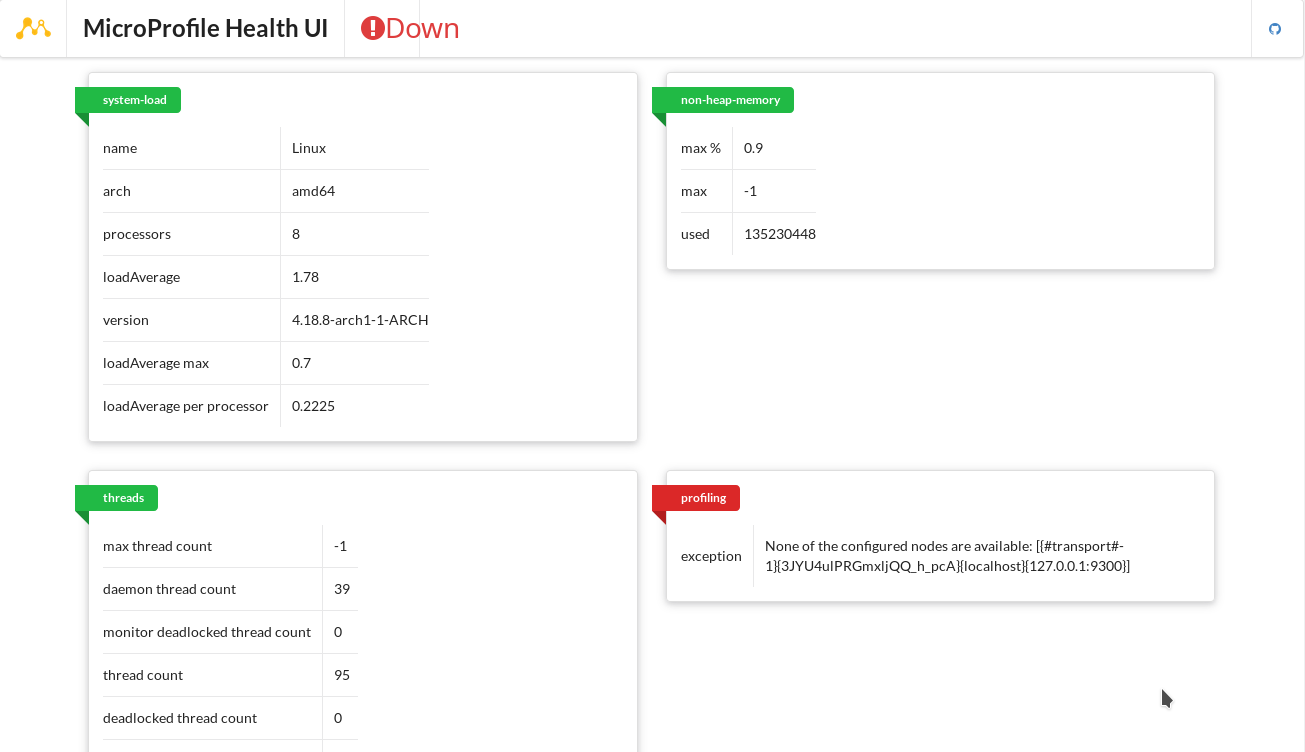
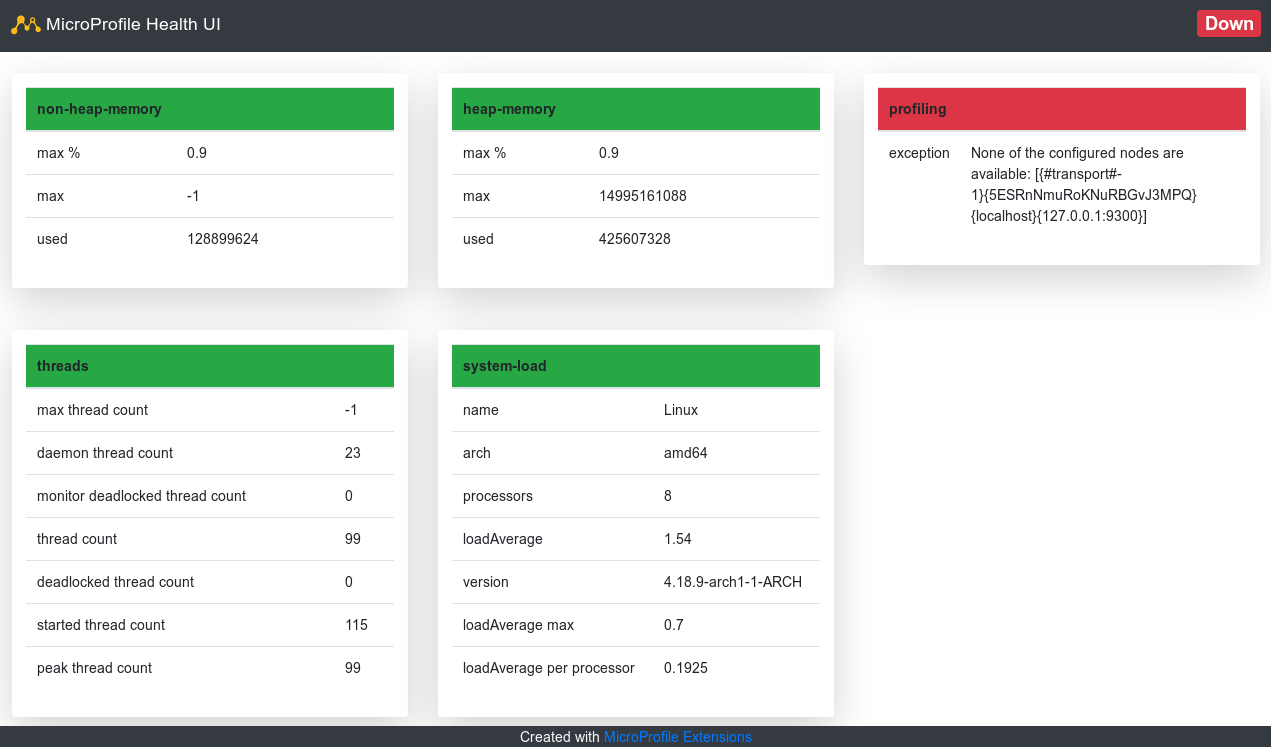
Changed from Semantic-ui to bootstrap

diff --git a/health-ui/src/main/webapp/health-ui/index.html b/health-ui/src/main/webapp/health-ui/index.html
@@ -3,7 +3,7 @@
     <head>
         <meta charset="utf-8">
         <meta http-equiv="X-UA-Compatible" content="IE=edge">
-        <meta name="viewport" content="width=device-width, initial-scale=1">
+        <meta name="viewport" content="width=device-width, initial-scale=1, shrink-to-fit=no">
         
         <meta name="description" content="MicroProfile Health UI"/>
         <meta name="keywords" content="MicroProfile, Health" />
@@ -16,44 +16,42 @@
         
         <title>MicroProfile Health UI</title>
 
-        <!-- Semantic UI -->
-        <link rel="stylesheet" type="text/css" href="../webjars/semantic-ui/${semantic-ui.version}/dist/semantic.min.css">
+        <!-- Bootstrap -->
+        <link rel="stylesheet" href="../webjars/bootstrap/${bootstrap.version}/css/bootstrap.min.css">
         
     </head>
     
     <body>
-        <div class="ui top menu">
-            <div class="item">
-                <img src="mplogo.png">
-            </div>
-            <div class="header item"><h2>MicroProfile Health UI</h2></div>
-            <div class="item" id="state">
-                <!-- Here enter the state -->
-            </div>
-            <div class="big right item">
-                <a href="https://github.com/microprofile-extensions/health-ext" target="_blank"><i class="github icon"></i></a>
+        <nav class="navbar sticky-top navbar-dark bg-dark">
+        
+            <a class="navbar-brand" href="#">
+              <img src="mplogo.png" width="30" height="30" class="d-inline-block align-top" alt="">
+              MicroProfile Health UI 
+            </a>
+            <ul class="navbar-nav">
+                <li class="nav-item" id="state">
+                    Loading state...
+                </li>
+            </ul>
+        </nav>
+        
+        <br/>
+        
+        <div class="container-fluid">
+            <div class="row" id="tiles">
+                Loading health probes...    
             </div>
         </div>
         
-        <div class="ui container">
-            <div class="ui grid" id="tiles">
-                <!-- Here enter the health probes -->
-            </div>
-        </div>    
-            
-        <br/><br/>
-        <div class="ui inverted vertical footer segment">
-            <div class="ui center aligned container">
-                <img src="logo.png" class="ui centered mini image">
-                <div class="ui horizontal inverted small divided link list">
-                    <a class="item" href="https://microprofile.io/">Eclipse MicroProfile</a>
-                    <a class="item" href="http://www.microprofile-ext.org">MicroProfile Extensions</a>
-                </div>
-            </div>
+        <div class="fixed-bottom">
+            <p class="text-center text-light bg-dark">
+                Created with <a href="https://github.com/microprofile-extensions/health-ext" target="_blank" class="link">MicroProfile Extensions</a>
+            </p>
         </div>
         
-        <script src="../webjars/jquery/${jquery.version}/dist/jquery.min.js"></script>
-        <script src="../webjars/semantic-ui/${semantic-ui.version}/dist/semantic.min.js"></script>
+        <script src="../webjars/jquery/${jquery.version}/jquery.min.js"></script>
+        <script src="../webjars/popper.js/${popper.version}/popper.min.js"></script>
+        <script src="../webjars/bootstrap/${bootstrap.version}/js/bootstrap.min.js"></script>
         <script src="healthui.js"></script>
         
     </body>

diff --git a/health-ui/src/main/webapp/health-ui/index_1.html b/health-ui/src/main/webapp/health-ui/index_1.html
@@ -1,0 +1,60 @@
+<!DOCTYPE html>
+<html lang="en">
+    <head>
+        <meta charset="utf-8">
+        <meta http-equiv="X-UA-Compatible" content="IE=edge">
+        <meta name="viewport" content="width=device-width, initial-scale=1">
+        
+        <meta name="description" content="MicroProfile Health UI"/>
+        <meta name="keywords" content="MicroProfile, Health" />
+        <meta name="author" content="Phillip Kruger"/>
+        <meta name="url" content="https://github.com/microprofile-extensions/health-ext"/>
+        <link rel="icon" href="mplogo.png"/>
+        <link rel="apple-touch-icon" href="mplogo.png"/>
+        <link rel="apple-touch-icon-precomposed" href="mplogo.png"/>
+        <link rel="shortcut icon" type="image/x-icon" href="mplogo.png"/>
+        
+        <title>MicroProfile Health UI</title>
+
+        <!-- Semantic UI -->
+        <link rel="stylesheet" type="text/css" href="../webjars/semantic-ui/${semantic-ui.version}/dist/semantic.min.css">
+        
+    </head>
+    
+    <body>
+        <div class="ui top menu">
+            <div class="item">
+                <img src="mplogo.png">
+            </div>
+            <div class="header item"><h2>MicroProfile Health UI</h2></div>
+            <div class="item" id="state">
+                <!-- Here enter the state -->
+            </div>
+            <div class="big right item">
+                <a href="https://github.com/microprofile-extensions/health-ext" target="_blank"><i class="github icon"></i></a>
+            </div>
+        </div>
+        
+        <div class="ui container">
+            <div class="ui grid" id="tiles">
+                <!-- Here enter the health probes -->
+            </div>
+        </div>    
+            
+        <br/><br/>
+        <div class="ui inverted vertical footer segment">
+            <div class="ui center aligned container">
+                <img src="logo.png" class="ui centered mini image">
+                <div class="ui horizontal inverted small divided link list">
+                    <a class="item" href="https://microprofile.io/">Eclipse MicroProfile</a>
+                    <a class="item" href="http://www.microprofile-ext.org">MicroProfile Extensions</a>
+                </div>
+            </div>
+        </div>
+        
+        <script src="../webjars/jquery/${jquery.version}/dist/jquery.min.js"></script>
+        <script src="../webjars/semantic-ui/${semantic-ui.version}/dist/semantic.min.js"></script>
+        <script src="healthui.js"></script>
+        
+    </body>
+</html>

diff --git a/health-ui/src/main/webapp/health-ui/healthui.js b/health-ui/src/main/webapp/health-ui/healthui.js
@@ -21,9 +21,9 @@ function processRequest(healthprobes) {
     var state = healthprobes.outcome;
     
     if(state === "DOWN"){
-        stateItem.innerHTML = "<i class='big red exclamation circle icon'>Down</i> ";
+        stateItem.innerHTML = "<h3><span class='badge badge-danger'>Down</span></h3>";
     }else{
-        stateItem.innerHTML = "<i class='big green check circle icon'>Up</i> ";
+        stateItem.innerHTML = "<h3><span class='badge badge-success'>Up</span></h3>";
     }
     
     var checks = healthprobes.checks;
@@ -34,15 +34,18 @@ function processRequest(healthprobes) {
         var check = checks[i];
         var name = check.name;
         var updown = check.state;
-        var ribboncolor = "green";
-        if(updown === "DOWN")ribboncolor = "red";
+        var headingclass = "bg-success";
+        if(updown === "DOWN")headingclass = "bg-danger";
         
-        text += "<div class='eight wide column'>" +
-                
-                    "<div class='ui raised segment'>" + 
-                        "<a class='ui " + ribboncolor + " ribbon label'>" + name + "</a>" + 
-                        "<table class='ui very basic collapsing celled table'>" + 
-                            "<tbody>";
+        text += "<div class='col-sm-4'>" +
+                "<div class='shadow-lg p-3 mb-5 bg-white rounded'>" +
+                "<table class='table'>" +
+            "<thead>" +
+                "<tr class='" + headingclass+ "'>" +
+                    "<th colspan='2'>" + name + "</th>" +
+                "</tr>" +
+            "</thead>" +
+            "<tbody>";
         
         var meta = check.data;
         
@@ -50,16 +53,16 @@ function processRequest(healthprobes) {
             var v = meta[k];
             
             text += "<tr>" + 
-                        "<td data-label='key'>" + k +"</td>" + 
-                        "<td data-label='value'>" + v + "</td>" + 
+                        "<td>" + k +"</td>" + 
+                        "<td>" + v + "</td>" + 
                     "</tr>";
         }
-        
-        text += "</tbody>" + 
-                "</table>" + 
-                "</div>" +
-                "</div>";
                 
+        text += "</tbody>" +
+        "</table>" +
+        "</div>" +
+        "</div>";
+        
     } 
     tiles.innerHTML = text;
 }
